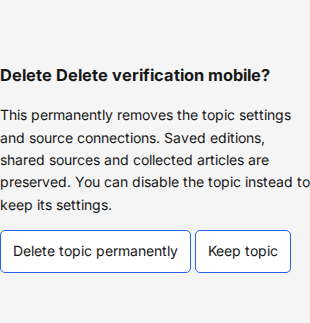
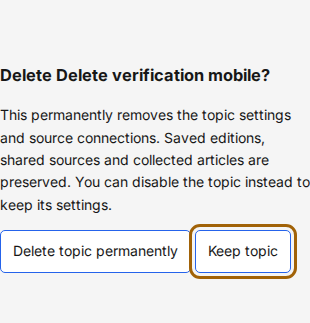
Keep keyboard focus safe during topic deletion

Changed region(s): [[0.6097, 0.6811, 0.9581, 0.8669]]

diff --git a/scripts/smoke-topic-delete.ts b/scripts/smoke-topic-delete.ts
@@ -127,14 +127,24 @@ async function smoke() {
         name: 'Delete ' + topic.name,
         exact: true,
       });
-      await confirmation
-        .getByRole('button', { name: 'Keep topic', exact: true })
-        .click();
+      const keep = confirmation.getByRole('button', {
+        name: 'Keep topic',
+        exact: true,
+      });
+      await keep.waitFor();
+      assert.ok(await keep.evaluate((el) => el === document.activeElement));
+      await keep.press('Enter');
+      const deleteButton = page.getByRole('button', {
+        name: 'Delete ' + topic.name,
+        exact: true,
+      });
+      assert.ok(
+        await deleteButton.evaluate((el) => el === document.activeElement),
+      );
       assert.ok(replayTopics.some((saved) => saved.id === topic.id));
       assert.equal(deletes, deletesBefore, 'Cancel must not send a delete');
-      await page
-        .getByRole('button', { name: 'Delete ' + topic.name, exact: true })
-        .click();
+      await deleteButton.press('Enter');
+      assert.ok(await keep.evaluate((el) => el === document.activeElement));
       await confirmation.scrollIntoViewIfNeeded();
       await confirmation.screenshot({
         path: 'docs/screenshots/topic-delete-' + device + '.png',
@@ -154,6 +164,7 @@ async function smoke() {
       await page.screenshot({
         path: 'docs/screenshots/topic-delete-failure-' + device + '.png',
       });
+      assert.ok(await keep.evaluate((el) => el === document.activeElement));
       assert.equal(deletes, deletesBefore + 1);
       failDelete = false;
       await confirmation
@@ -163,6 +174,11 @@ async function smoke() {
         .getByRole('status')
         .filter({ hasText: 'Deleted ' + topic.name + '.' })
         .waitFor();
+      assert.ok(
+        await page
+          .getByRole('button', { name: 'Create topic', exact: true })
+          .evaluate((el) => el === document.activeElement),
+      );
       await page.reload();
       await page
         .locator('.topic-grid')
@@ -298,7 +314,7 @@ async function smoke() {
     assert.deepEqual(credentials, []);
     assert.deepEqual(unexpectedWrites, []);
     console.log(
-      'Topic deletion desktop/mobile: browser replay cancel, error/retry, removal, real timeout and lost-response recovery without retry, reload and order passed; no production writes or generation',
+      'Topic deletion desktop/mobile: browser replay safe confirmation focus, keyboard cancel/reopen, focus restoration after cancel/error/removal, real timeout and lost-response recovery without retry, reload and order passed; no production writes or generation',
     );
   } finally {
     assert.deepEqual(

diff --git a/apps/web/src/TopicSettings.tsx b/apps/web/src/TopicSettings.tsx
@@ -24,6 +24,21 @@ export function TopicSettings({
   const [editing, setEditing] = React.useState<Topic | null>(null);
   const [busy, setBusy] = React.useState(false);
   const [message, setMessage] = React.useState('');
+  const deleteTrigger = React.useRef<HTMLButtonElement | null>(null);
+  const keepTopic = React.useRef<HTMLButtonElement>(null);
+  const createTopic = React.useRef<HTMLButtonElement>(null);
+  React.useEffect(() => {
+    if (busy) return;
+    if (deleting) {
+      keepTopic.current?.focus();
+    } else if (deleteTrigger.current) {
+      const target = deleteTrigger.current.isConnected
+        ? deleteTrigger.current
+        : createTopic.current;
+      target?.focus();
+      deleteTrigger.current = null;
+    }
+  }, [deleting, busy]);
   async function remove() {
     if (!deleting) return;
     setBusy(true);
@@ -202,6 +217,7 @@ export function TopicSettings({
       <button
         type="button"
         disabled={busy}
+        ref={createTopic}
         onClick={() => {
           setEditing({
             id: '',
@@ -278,7 +294,8 @@ export function TopicSettings({
             <button
               type="button"
               disabled={busy}
-              onClick={() => {
+              onClick={(event) => {
+                deleteTrigger.current = event.currentTarget;
                 setDeleting(topic);
                 setMessage('');
               }}
@@ -302,6 +319,7 @@ export function TopicSettings({
           <button
             type="button"
             disabled={busy}
+            ref={keepTopic}
             onClick={() => setDeleting(null)}
           >
             Keep topic

diff --git a/PROGRESS.md b/PROGRESS.md
@@ -112,3 +112,14 @@
 - Rebuilt API restarted; health green. Browser snapshots prove protected live topics/profile/full edition unchanged; no paid calls or live data writes.
 - Archived completed task markers 830–837; TASKS updated. Handbook/SOURCES/NEEDS_FROM_HUMAN unchanged (accessible labels only, no new blocker).
 - Next FIRST: 15:00 UTC NBA/grouping/cost/latency review, fallback before scorer; X rounds after 21:00 UTC Nov 5/6. Admin identity/proxy verification remains pending.
+
+## 2026-11-05: iteration 839 — safe keyboard focus for topic deletion
+
+- Started clean on main; no leftover work. Health/database/Redis green and alerts clear; Nov 5 scheduled review remains due at 15:00 UTC.
+- Delete confirmation focuses Keep topic. Keyboard cancellation restores the original Delete button; successful removal focuses Create topic; failed deletion restores the safe choice.
+- Desktop/mobile replay verifies focus, Enter cancellation/reopening, failure/retry, successful removal and timeout/lost-response recovery. Confirmation screenshots inspected; unrelated regenerated screenshot discarded.
+- Verification: pnpm format; pnpm lint:fix; pnpm build; pnpm check (497 unit/214 isolated integration passed); smoke-topic-delete.ts and smoke-admin-gate.ts exit 0; git diff --check.
+- First browser launch raced the API restart (ECONNREFUSED); rerun after health green passed. Browser snapshots prove protected live topics/profile/full edition unchanged.
+- Rebuilt API restarted; latest reader edition has four topics, health green and alerts clear. Worker/schedule unchanged; no paid calls or live data writes.
+- TASKS updated; handbook/SOURCES/NEEDS_FROM_HUMAN unchanged (keyboard navigation fix, no new blocker).
+- Next FIRST: 15:00 UTC NBA/grouping/cost/latency review, fallback before scorer; X rounds after 21:00 UTC Nov 5/6. Admin identity/proxy verification remains pending.

diff --git a/TASKS.md b/TASKS.md
@@ -45,6 +45,8 @@ STEERING overrides older milestone notes; implementation history is in PROGRESS.
 
 ## Done markers
 
+- [x] Topic deletion keyboard navigation (839): confirmation focuses Keep topic; cancellation restores Delete and successful removal focuses Create topic. Desktop/mobile replay covers safe focus, keyboard cancel/reopen and failure recovery.
+
 - [x] Source catalog accessibility (838): checkboxes name their source; feed links name the source and new tab. Desktop/mobile keyboard replay verifies Tab order and unchanged selection.
 
 - Completed iterations 830–837: [archive](docs/progress-archive/2026-11-05-completed-task-markers-838.md).
